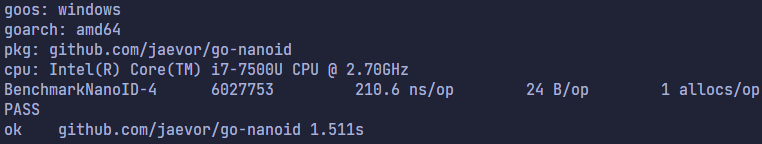
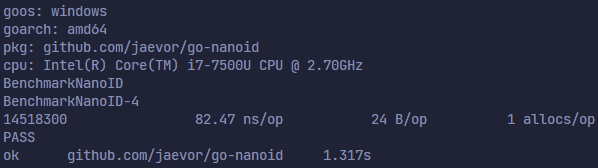
improvements, readme changes

diff --git a/nanoid.go b/nanoid.go
@@ -17,7 +17,7 @@ import (
 )
 
 // Default characters (A-Za-z0-9_-).
-var defaultCharset = []rune("useandom-26T198340PX75pxJACKVERYMINDBUSHWOLF_GQZbfghjklqvwyzrict")
+var defaultCharset = []byte("useandom-26T198340PX75pxJACKVERYMINDBUSHWOLF_GQZbfghjklqvwyzrict")
 
 type generator = func() string
 
@@ -29,19 +29,25 @@ func New(length int) (generator, error) {
 		return nil, errInvalidLength
 	}
 
-	var mu sync.Mutex
-
 	// Multiplying by 128 and using an offset so
 	// that the bytes only have to be refilled
 	// every 129th nanoid. This is more efficient.
 
+	// b holds the random crypto bytes.
 	b := make([]byte, length*128)
 	size := len(b)
 	offset := 0
 
 	cryptoRand.Read(b)
 
-	id := make([]rune, length)
+	// Since the default charset is ASCII,
+	// we don't have to use runes here. ASCII max is
+	// 128, so byte will be perfect.
+
+	id := make([]byte, length)
+	// id := make([]rune, length)
+
+	var mu sync.Mutex
 
 	return func() string {
 		mu.Lock()
@@ -50,7 +56,6 @@ func New(length int) (generator, error) {
 		// If all the bytes in the slice
 		// have been used, refill.
 		if offset == size {
-
 			cryptoRand.Read(b)
 			offset = 0
 		}
@@ -67,8 +72,6 @@ func New(length int) (generator, error) {
 	}, nil
 }
 
-// TODO: make NewNonSecure faster
-
 // Create a non-secure Nano ID generator.
 // Non-secure is faster than secure because it uses pseudorandom numbers.
 // Returns error if length is not between 2 and 255 (inclusive).
@@ -79,18 +82,33 @@ func NewNonSecure(length int) (generator, error) {
 		return nil, errInvalidLength
 	}
 
-	var mu sync.Mutex
+	// b holds pseudorandom bytes.
+	b := make([]byte, length*128)
+	size := len(b)
+	offset := 0
+
+	mathRand.Read(b)
 
 	// Reuse.
-	id := make([]rune, length)
+	id := make([]byte, length)
+
+	var mu sync.Mutex
 
 	return func() string {
 		mu.Lock()
 		defer mu.Unlock()
 
-		for i := 0; i < length; i++ {
-			id[i] = defaultCharset[mathRand.Intn(64)]
+		if offset == size {
+			// Refill b.
+			mathRand.Read(b)
+			offset = 0
 		}
+
+		for i := 0; i < length; i++ {
+			id[i] = defaultCharset[b[i+offset]&63]
+		}
+
+		offset += length
 
 		return string(id)
 	}, nil
@@ -103,14 +121,12 @@ func NewCustom(charset string, length int) (generator, error) {
 		return nil, errInvalidLength
 	}
 
-	var mu sync.Mutex
-
 	setLen := len(charset)
 	runicSet := []rune(charset)
 
 	// Because the custom character-set is not guaranteed to have
 	// 64 chars to utilise, we have to calculate a suitable mask.
-	// This is 1:1 to the original implementation.
+	// The following calculations are 1:1 to the original implementation.
 	clz := bits.LeadingZeros32((uint32(setLen) - 1) | 1)
 	mask := (2 << (31 - clz)) - 1
 	w := (1.6 * float64(mask*length)) / float64(setLen)
@@ -119,6 +135,8 @@ func NewCustom(charset string, length int) (generator, error) {
 	// Will be reusing the same rune and byte slices.
 	id := make([]rune, length)
 	b := make([]byte, step)
+
+	var mu sync.Mutex
 
 	return func() string {
 		mu.Lock()
@@ -153,20 +171,16 @@ func NewCustomNonSecure(charset string, length int) (generator, error) {
 		return nil, errInvalidLength
 	}
 
-	var mu sync.Mutex
-
 	runicSet := []rune(charset)
 	setLen := len(runicSet)
 
-	// var id strings.Builder
-	// id.Grow(length)
 	id := make([]rune, length)
+
+	var mu sync.Mutex
 
 	return func() string {
 		mu.Lock()
 		defer mu.Unlock()
-
-		// id.Reset()
 
 		for i := 0; i < length; i++ {
 			id[i] = runicSet[mathRand.Intn(setLen)]

diff --git a/nanoid_test.go b/nanoid_test.go
@@ -13,7 +13,7 @@ import (
 func init() {
 	// This is so that math/rand can work correctly.
 	// Only needed for non-secure. Users will have to do this themselves.
-	rand.Seed(time.Now().UnixNano())
+	rand.Seed(time.Now().Unix())
 }
 
 func TestNew(t *testing.T) {
@@ -108,8 +108,6 @@ func BenchmarkNanoID(b *testing.B) {
 	}
 }
 
-// Non-secure is not as fast as it could be.
-// TODO: make it faster.
 func BenchmarkNonSecureNanoID(b *testing.B) {
 	f, err := nanoid.NewNonSecure(21)
 	if err != nil {

diff --git a/examples/example.go b/examples/example.go
@@ -2,6 +2,8 @@ package main
 
 import (
 	"log"
+	"math/rand"
+	"time"
 
 	"github.com/jaevor/go-nanoid"
 )
@@ -18,4 +20,19 @@ func main() {
 
 	log.Printf("ID 1: %s", id1)
 	log.Printf("ID 2: %s", id2)
+
+	rand.Seed(time.Now().Unix())
+
+	f2, err := nanoid.NewNonSecure(21)
+
+	if err != nil {
+		panic(err)
+	}
+
+	id3 := f2()
+	id4 := f2()
+
+	log.Printf("ID 3: %s", id3)
+	log.Printf("ID 4: %s", id4)
+
 }

diff --git a/README.md b/README.md
@@ -1,6 +1,6 @@
 # **go-nanoid**
 
-[![Build Status](https://github.com/jaevor/go-nanoid/workflows/test/badge.svg)](https://github.com/jaevor/go-nanoid/actions)
+[![Build Status](https://github.com/jaevor/go-nanoid/workflows/tests/badge.svg)](https://github.com/jaevor/go-nanoid/actions)
 [![Build Status](https://github.com/jaevor/go-nanoid/workflows/lint/badge.svg)](https://github.com/jaevor/go-nanoid/actions)
 [![GitHub Issues](https://img.shields.io/github/issues/jaevor/go-nanoid.svg)](https://github.com/jaevor/go-nanoid/issues)
 [![Go Ref](https://pkg.go.dev/badge/github.com/jaevor/go-nanoid)](https://pkg.go.dev/github.com/jaevor/go-nanoid)
@@ -10,13 +10,20 @@ This module is a Go implementation of [nanoid](https://github.com/ai/nanoid).
 Features of the nanoid spec are:
 > Use of hardware random generator
 
-> Has larger alphabet than UUID (`A-Za-z0-9_-`), so ID size is reduced from 36 to 21 characters
+> Uses a larger charset (`A-Za-z0-9_-`) than UUID
 
 > Faster than UUID
 
+> URL friendly
+
+Features of this specific implementation are:
+> Fastest, most performant implementation of Nano ID
+
+> No production dependencies
 
 *See [comparison with UUID](https://github.com/ai/nanoid/blob/main/README.md#comparison-with-uuid)*
 
+**[NanoID collison calculator](https://zelark.github.io/nano-id-cc/)**
 
 **Read more [here](https://github.com/ai/nanoid/blob/main/README.md)**
 
@@ -26,6 +33,8 @@ Features of the nanoid spec are:
 ```go
 import (
 	"log"
+	"math/rand"
+	"time"
 	"github.com/jaevor/go-nanoid"
 )
 
@@ -38,10 +47,22 @@ func main() {
   id1 := createNanoid()
   id2 := createNanoid()
 
-  log.Printf("ID 1: %s", id1)
-  // ID 1: p7aXQf7xK3jlfecYGKeRK
-  log.Printf("ID 2: %s", id2)
-  // ID 2: WTGJ1VPh472R_4h--UNL0
+  log.Printf("ID 1: %s", id1) // p7aXQf7xK3jlfecYGKeRK
+  log.Printf("ID 2: %s", id2) // WTGJ1VPh472R_4h--UNL0
+
+  // [!] Remember to seed. 
+  rand.Seed(time.Now().Unix())
+
+  createNonSecureNanoid, err := nanoid.NewNonSecure(21)
+  if err != nil {
+    panic(err)
+  }
+
+  id3 := createNonSecureNanoid()
+  id4 := createNonSecureNanoid()
+
+  log.Printf("ID 3: %s", id3) // japKZqwnQvllgUQ8lwgkP
+  log.Printf("ID 4: %s", id4) // 2jo3VdWZ2LbTB79TKB9je
 }
 
 ```
@@ -51,7 +72,7 @@ func main() {
 ## Benchmarks
 All benchmarks & tests can be found in [nanoid_test.go](./nanoid_test.go).
 
-6,000,000 Nano IDs in 1500ms.
+**14,500,000** Nano IDs in **1300ms** @ `82.5 ns/op`**,** `24 B/op`**,** `1 alloc/op`.
 ![benchmark](./img/benchmark.png)
 
 ---
